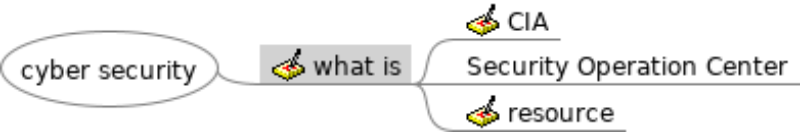
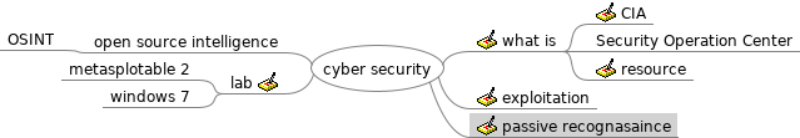
update lecture notes

Changed region(s): [[0.0, 0.0303, 1.0, 1.0], [0.7188, 0.0303, 0.8125, 0.2121], [0.0312, 0.697, 0.0625, 0.7576]]

diff --git a/go programming.mm b/go programming.mm
@@ -11,7 +11,7 @@
 <node CREATED="1647080045019" ID="ID_635761731" MODIFIED="1647080049744" TEXT="if it is executable"/>
 </node>
 </node>
-<node CREATED="1647080080310" ID="ID_1315494046" MODIFIED="1647080082569" POSITION="left" TEXT="apackage">
+<node CREATED="1647080080310" FOLDED="true" ID="ID_1315494046" MODIFIED="1654179446979" POSITION="left" TEXT="apackage">
 <node CREATED="1647080082783" ID="ID_1903232000" MODIFIED="1647080090774" TEXT="package consist multiple file"/>
 </node>
 <node CREATED="1647080142277" FOLDED="true" ID="ID_17019164" MODIFIED="1651055469988" POSITION="right" TEXT="file type">
@@ -65,14 +65,14 @@
 <node CREATED="1651364580653" ID="ID_1790017746" MODIFIED="1651364584746" TEXT="generate cert go"/>
 <node CREATED="1651416073432" ID="ID_849806083" MODIFIED="1651416084807" TEXT="automitaccly upgrade to http/2"/>
 </node>
-<node CREATED="1651416303582" FOLDED="true" ID="ID_1930829820" MODIFIED="1651418546979" POSITION="right" TEXT="timeout">
-<node CREATED="1651416308623" ID="ID_193302940" MODIFIED="1651416316784" TEXT="idletimeout">
+<node CREATED="1651416303582" FOLDED="true" ID="ID_1930829820" MODIFIED="1654179427974" POSITION="right" TEXT="timeout">
+<node CREATED="1651416308623" FOLDED="true" ID="ID_193302940" MODIFIED="1654179425901" TEXT="idletimeout">
 <node CREATED="1651416317621" ID="ID_1550225553" MODIFIED="1651416332495" TEXT="kapan bakalan closed connection"/>
 </node>
-<node CREATED="1651418121079" ID="ID_1970659111" MODIFIED="1651418125655" TEXT="readtimeout">
+<node CREATED="1651418121079" FOLDED="true" ID="ID_1970659111" MODIFIED="1654179422536" TEXT="readtimeout">
 <node CREATED="1651418126918" ID="ID_1623663361" MODIFIED="1651418150719" TEXT="kalau header sama body masih dibaca 5 detik, close the connection"/>
 </node>
-<node CREATED="1651418445505" ID="ID_1834604199" MODIFIED="1651418452402" TEXT="writetimeout">
+<node CREATED="1651418445505" FOLDED="true" ID="ID_1834604199" MODIFIED="1654179424392" TEXT="writetimeout">
 <node CREATED="1651418452854" ID="ID_1622765166" MODIFIED="1651418463250" TEXT="jag2 kalo lama kirim requet"/>
 </node>
 </node>
@@ -158,8 +158,7 @@
       same site session
     </p>
   </body>
-</html>
-</richcontent>
+</html></richcontent>
 <node CREATED="1652108271318" ID="ID_1758184807" MODIFIED="1652108278033" TEXT="bcrptyt">
 <node CREATED="1652108278800" ID="ID_1942693781" MODIFIED="1652108284162" TEXT="buat salting the password"/>
 </node>

diff --git a/cyber security.mm b/cyber security.mm
@@ -11,8 +11,7 @@
       indentify threat, calculate the risk and handle the threat
     </p>
   </body>
-</html>
-</richcontent>
+</html></richcontent>
 <node CREATED="1653406032711" ID="ID_1821373364" MODIFIED="1653406185434" TEXT="CIA">
 <richcontent TYPE="NOTE"><html>
   <head>
@@ -41,8 +40,7 @@
       
     </p>
   </body>
-</html>
-</richcontent>
+</html></richcontent>
 </node>
 <node CREATED="1653406527922" ID="ID_1080319" MODIFIED="1653406536066" TEXT="Security Operation Center"/>
 <node CREATED="1653406730479" ID="ID_671665701" MODIFIED="1653407230894" TEXT="resource">
@@ -67,9 +65,70 @@
       
     </p>
   </body>
+</html></richcontent>
+</node>
+</node>
+<node CREATED="1654179582099" ID="ID_878513318" MODIFIED="1654179589976" POSITION="left" TEXT="open source intelligence">
+<node CREATED="1654179590215" ID="ID_1640812714" MODIFIED="1654179592987" TEXT="OSINT"/>
+</node>
+<node CREATED="1654179680577" ID="ID_1704596673" MODIFIED="1654179864418" POSITION="right" TEXT="exploitation">
+<richcontent TYPE="NOTE"><html>
+  <head>
+    
+  </head>
+  <body>
+    <p>
+      using flaw in OS
+    </p>
+    <p>
+      buffer overflow ... pasang rootkit
+    </p>
+    <p>
+      metasploit ... for known vunerability
+    </p>
+    <p>
+      database PII .. personal identifiable
+    </p>
+  </body>
 </html>
 </richcontent>
 </node>
+<node CREATED="1654180423233" ID="ID_1450730686" MODIFIED="1654180804785" POSITION="left" TEXT="lab">
+<richcontent TYPE="NOTE"><html>
+  <head>
+    
+  </head>
+  <body>
+    <p>
+      oldapps.com ... ini buat nyari apps2 lama
+    </p>
+  </body>
+</html>
+</richcontent>
+<node CREATED="1654180426806" ID="ID_1971370141" MODIFIED="1654180432028" TEXT="metasplotable 2"/>
+<node CREATED="1654180432582" ID="ID_1480105892" MODIFIED="1654180435767" TEXT="windows 7"/>
+</node>
+<node CREATED="1654180885859" ID="ID_1321869141" MODIFIED="1654183622257" POSITION="right" TEXT="passive recognasaince">
+<richcontent TYPE="NOTE"><html>
+  <head>
+    
+  </head>
+  <body>
+    <p>
+      google hacking
+    </p>
+    <p>
+      netcraft
+    </p>
+    <p>
+      shodan
+    </p>
+    <p>
+      exploit-db
+    </p>
+  </body>
+</html>
+</richcontent>
 </node>
 </node>
 </map>

diff --git a/monitoring.mm b/monitoring.mm
@@ -1,0 +1,48 @@
+<map version="1.1.0">
+<!-- To view this file, download free mind mapping software FreeMind from http://freemind.sourceforge.net -->
+<node CREATED="1654305814710" ID="ID_741893591" MODIFIED="1654305822596" TEXT="monitoring">
+<node CREATED="1654305823440" ID="ID_838043921" MODIFIED="1654305840840" POSITION="right" TEXT="operation based tools"/>
+<node CREATED="1654352693438" ID="ID_793642119" MODIFIED="1654352975014" POSITION="left" TEXT="gcloud setup">
+<richcontent TYPE="NOTE"><html>
+  <head>
+    
+  </head>
+  <body>
+    <p>
+      gcloud init
+    </p>
+  </body>
+</html>
+</richcontent>
+</node>
+<node CREATED="1654355623637" ID="ID_528228364" MODIFIED="1654355736326" POSITION="right" TEXT="iam">
+<richcontent TYPE="NOTE"><html>
+  <head>
+    
+  </head>
+  <body>
+    <p>
+      roles .. kumpulan permission
+    </p>
+    <p>
+      permission ... sevice.resource.verb
+    </p>
+  </body>
+</html>
+</richcontent>
+</node>
+<node CREATED="1654356418177" ID="ID_68719153" MODIFIED="1654356427285" POSITION="left" TEXT="kms">
+<richcontent TYPE="NOTE"><html>
+  <head>
+    
+  </head>
+  <body>
+    <p>
+      key using aes
+    </p>
+  </body>
+</html>
+</richcontent>
+</node>
+</node>
+</map>

diff --git a/cyber security stuff.mm b/cyber security stuff.mm
@@ -1,0 +1,18 @@
+<map version="1.1.0">
+<!-- To view this file, download free mind mapping software FreeMind from http://freemind.sourceforge.net -->
+<node CREATED="1654179456385" ID="ID_709124229" MODIFIED="1654179464242" TEXT="cyber security stuff">
+<node CREATED="1654179464639" ID="ID_1670643842" MODIFIED="1654179502136" POSITION="right" TEXT="recognaisence">
+<richcontent TYPE="NOTE"><html>
+  <head>
+    
+  </head>
+  <body>
+    <p>
+      90 persen dari usaha
+    </p>
+  </body>
+</html>
+</richcontent>
+</node>
+</node>
+</map>

diff --git a/gcp in action.mm b/gcp in action.mm
@@ -1,0 +1,8 @@
+<map version="1.1.0">
+<!-- To view this file, download free mind mapping software FreeMind from http://freemind.sourceforge.net -->
+<node CREATED="1654277641796" ID="ID_393134924" MODIFIED="1654277648508" TEXT="gcp in action">
+<node CREATED="1654277651202" ID="ID_1482786780" MODIFIED="1654277654459" POSITION="right" TEXT="wordpress">
+<node CREATED="1654277654707" ID="ID_1784821399" MODIFIED="1654277657525" TEXT="cloud sql"/>
+</node>
+</node>
+</map>
